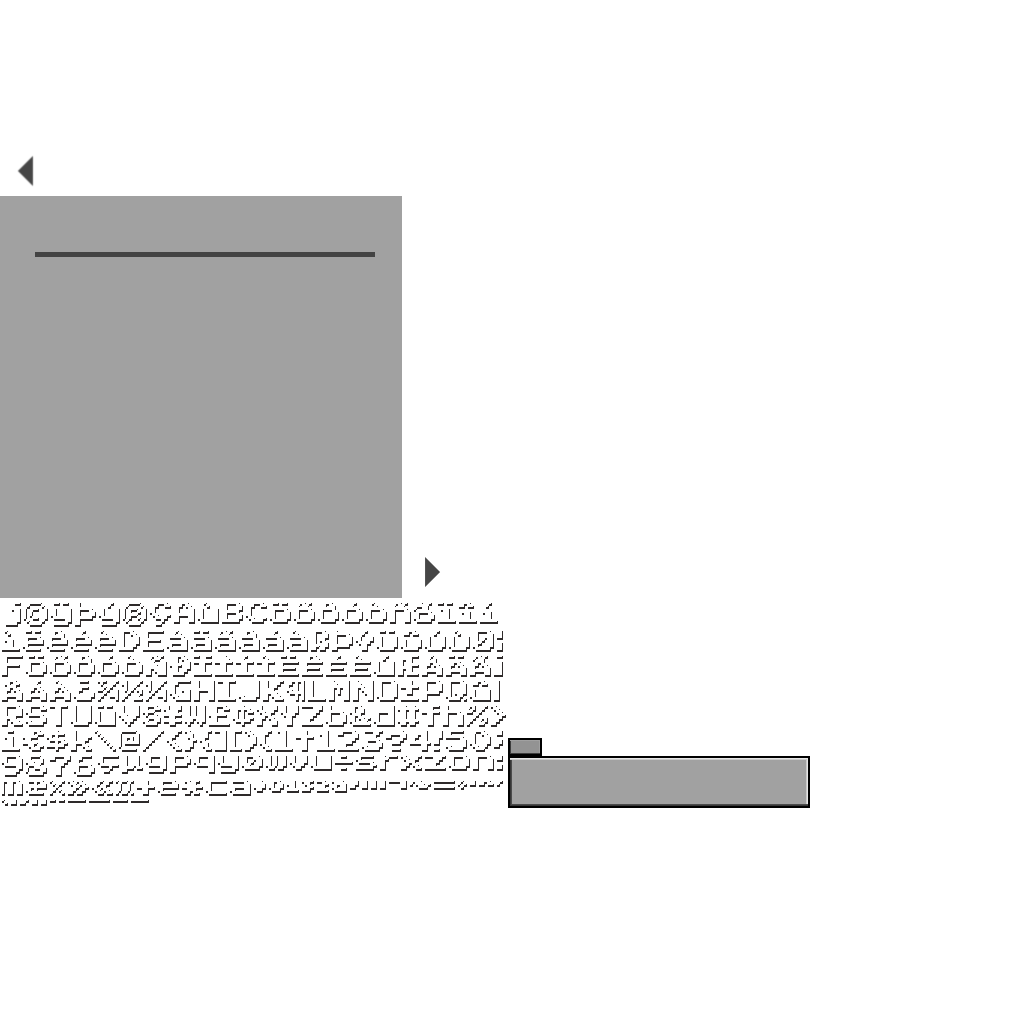
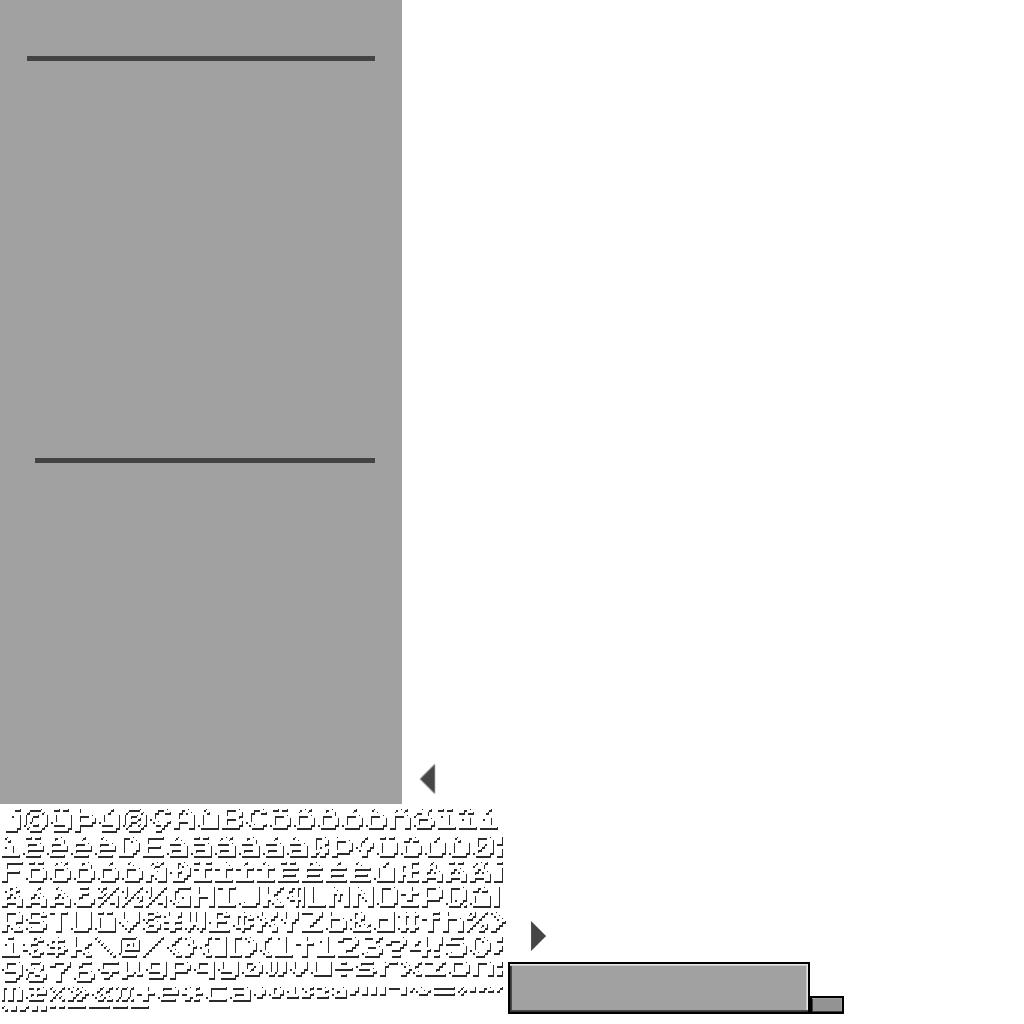
Add padding to buttons

diff --git a/src/main/java/inf112/app/screens/CourseSelector.java b/src/main/java/inf112/app/screens/CourseSelector.java
@@ -17,6 +17,7 @@ import com.badlogic.gdx.utils.viewport.Viewport;
 import com.kotcrab.vis.ui.building.OneRowTableBuilder;
 import com.kotcrab.vis.ui.building.utilities.Alignment;
 import com.kotcrab.vis.ui.building.utilities.CellWidget;
+import com.kotcrab.vis.ui.building.utilities.Padding;
 import com.kotcrab.vis.ui.widget.VisImageButton;
 import com.kotcrab.vis.ui.widget.VisImageTextButton;
 import com.kotcrab.vis.ui.widget.VisWindow;
@@ -38,6 +39,7 @@ public class CourseSelector implements Screen {
         this.game = game;
         this.menuViewport = viewport;
         this.stage = stage;
+        //stage.setDebugAll(true);
 
         mapCamera = new OrthographicCamera(); // Create a new camera for the TiledMap
         mapCamera.setToOrtho(false, menuViewport.getWorldWidth()/2f
@@ -86,11 +88,17 @@ public class CourseSelector implements Screen {
                 game.setScreen(new MainMenuScreen(game, menuViewport, stage));
             }
         });
-
-        builder.append(CellWidget.of(leftArrow).align(Alignment.LEFT).expandX().wrap());
-        builder.append(CellWidget.of(selectButton).align(Alignment.BOTTOM).expandY().wrap());
-        builder.append(CellWidget.of(returnButton).align(Alignment.BOTTOM).expandY().wrap());
-        builder.append(CellWidget.of(rightArrow).align(Alignment.RIGHT).expandX().wrap());
+        Padding paddingArrow = new Padding(0,0,50,0); // Add padding to buttons
+        Padding paddingSelectButton = new Padding(0,2,0,5);
+        Padding paddingReturnButton = new Padding(0,5,0,10);
+        builder.append(CellWidget.of(leftArrow)
+                .padding(paddingArrow).align(Alignment.LEFT).expandX().wrap());
+        builder.append(CellWidget.of(selectButton)
+                .padding(paddingSelectButton).width(245).align(Alignment.BOTTOM).expandY().wrap());
+        builder.append(CellWidget.of(returnButton)
+                .padding(paddingReturnButton).width(245).align(Alignment.BOTTOM).expandY().wrap());
+        builder.append(CellWidget.of(rightArrow)
+                .padding(paddingArrow).align(Alignment.RIGHT).expandX().wrap());
 
         Table table = builder.build(); // Create table from the TableBuilder
         window.add(table).expand().fill();

diff --git a/src/main/java/inf112/app/screens/MainMenuScreen.java b/src/main/java/inf112/app/screens/MainMenuScreen.java
@@ -57,13 +57,13 @@ public class MainMenuScreen implements Screen {
                 Gdx.app.exit();
             }
         });
-        table.add(singleplayerButton);
+        table.add(singleplayerButton).pad(3).height(60).width(350);
         table.row();
-        table.add(multiplayerButton);
+        table.add(multiplayerButton).pad(3).height(60).width(350);
         table.row();
-        table.add(settingsButton);
+        table.add(settingsButton).pad(3).height(60).width(350);
         table.row();
-        table.add(exitButton);
+        table.add(exitButton).pad(3).height(60).width(350);
         stage.addActor(table);
     }
 

diff --git a/src/main/java/inf112/app/screens/OptionScreen.java b/src/main/java/inf112/app/screens/OptionScreen.java
@@ -49,11 +49,11 @@ public class OptionScreen implements Screen {
                 Gdx.app.exit();
             }
         });
-        table.add(soundButton);
+        table.add(soundButton).pad(3).height(60).width(350);
         table.row();
-        table.add(returnButton);
+        table.add(returnButton).pad(3).height(60).width(350);
         table.row();
-        table.add(exitButton);
+        table.add(exitButton).pad(3).height(60).width(350);
         stage.addActor(table);
 
     }
